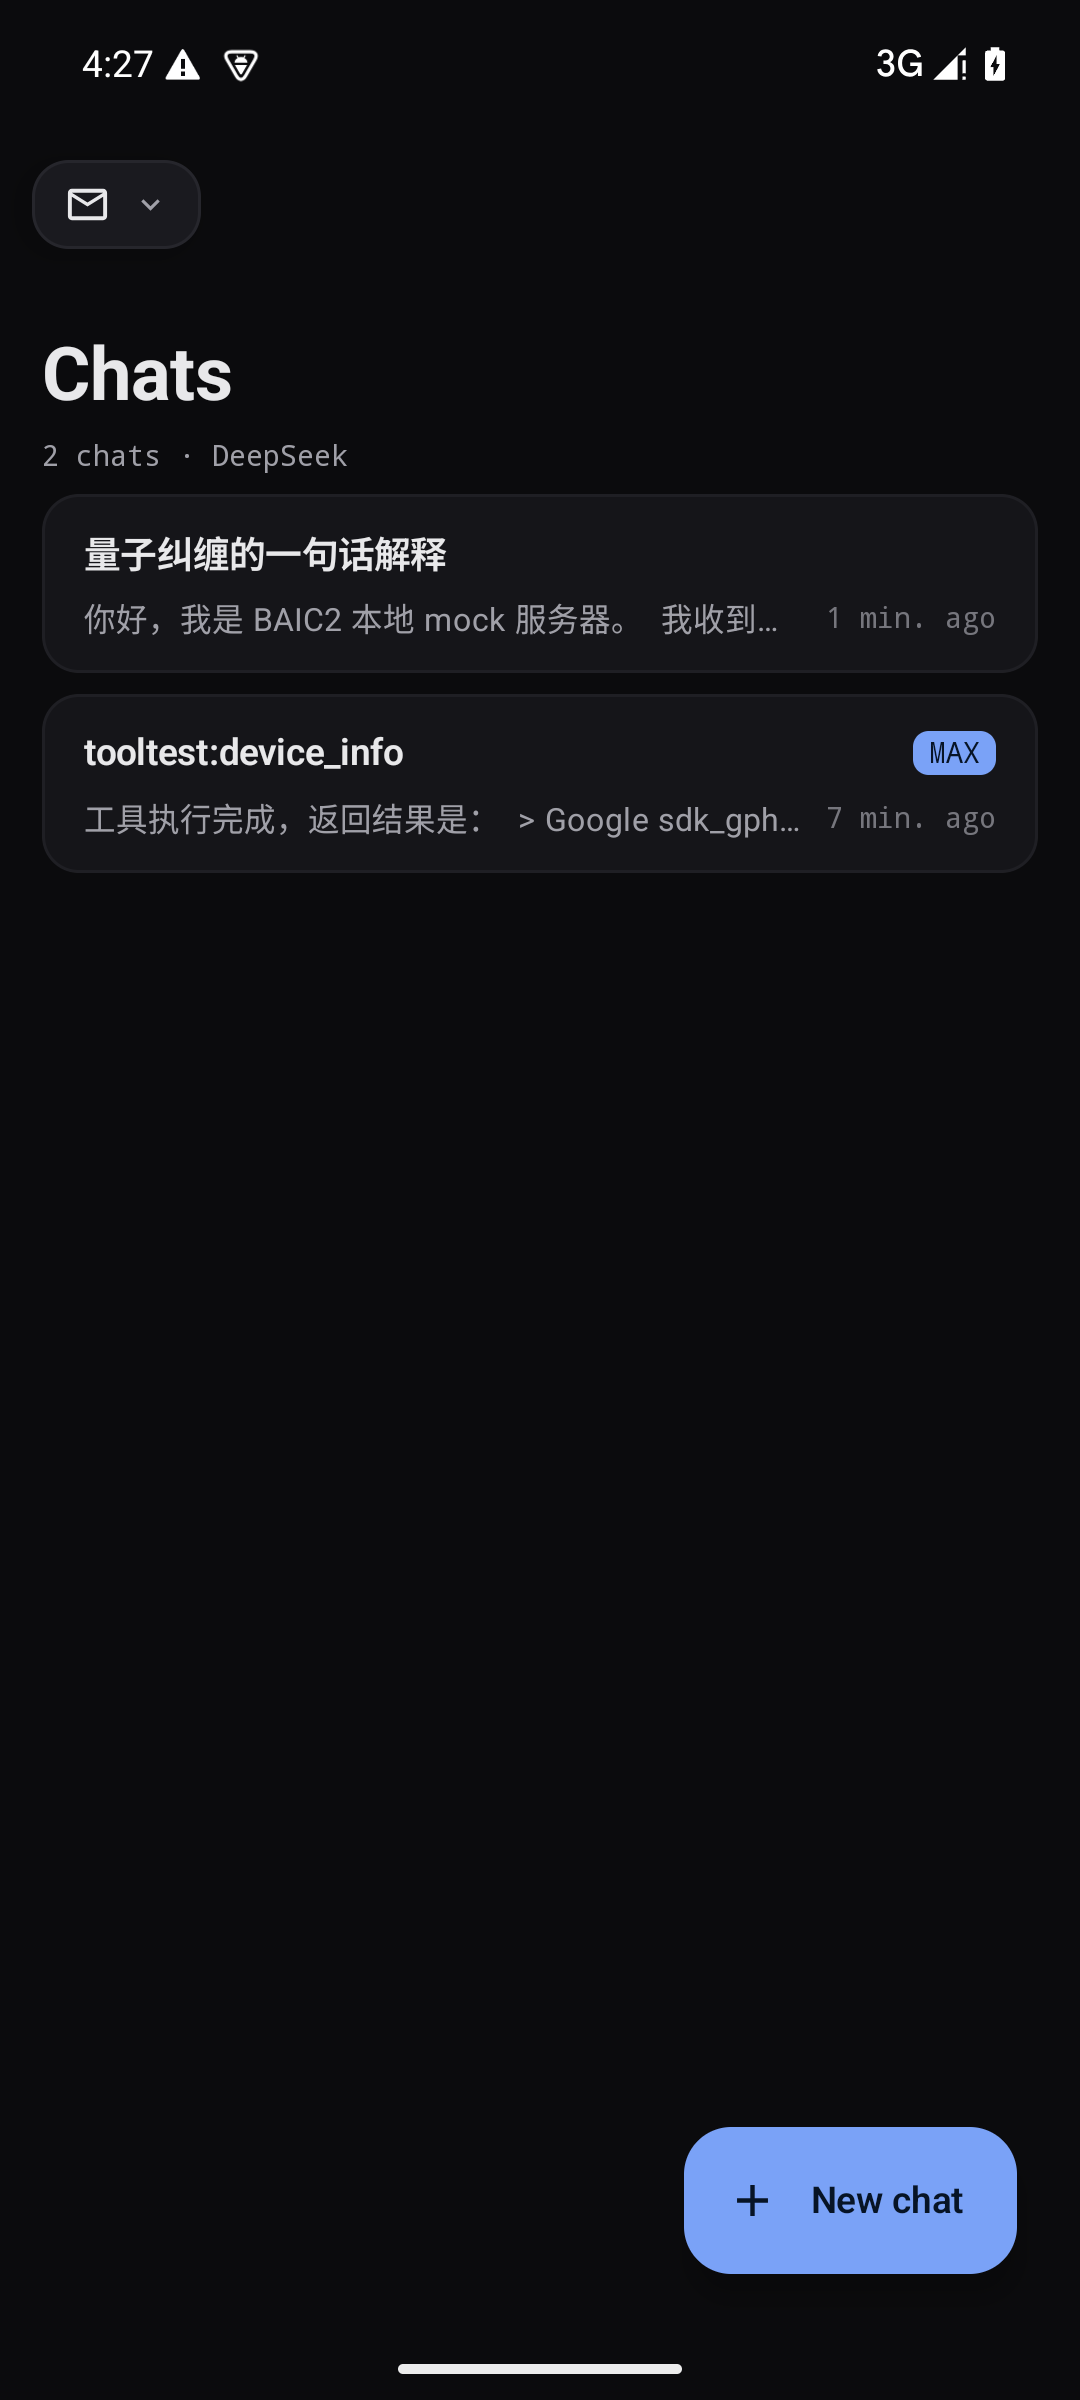
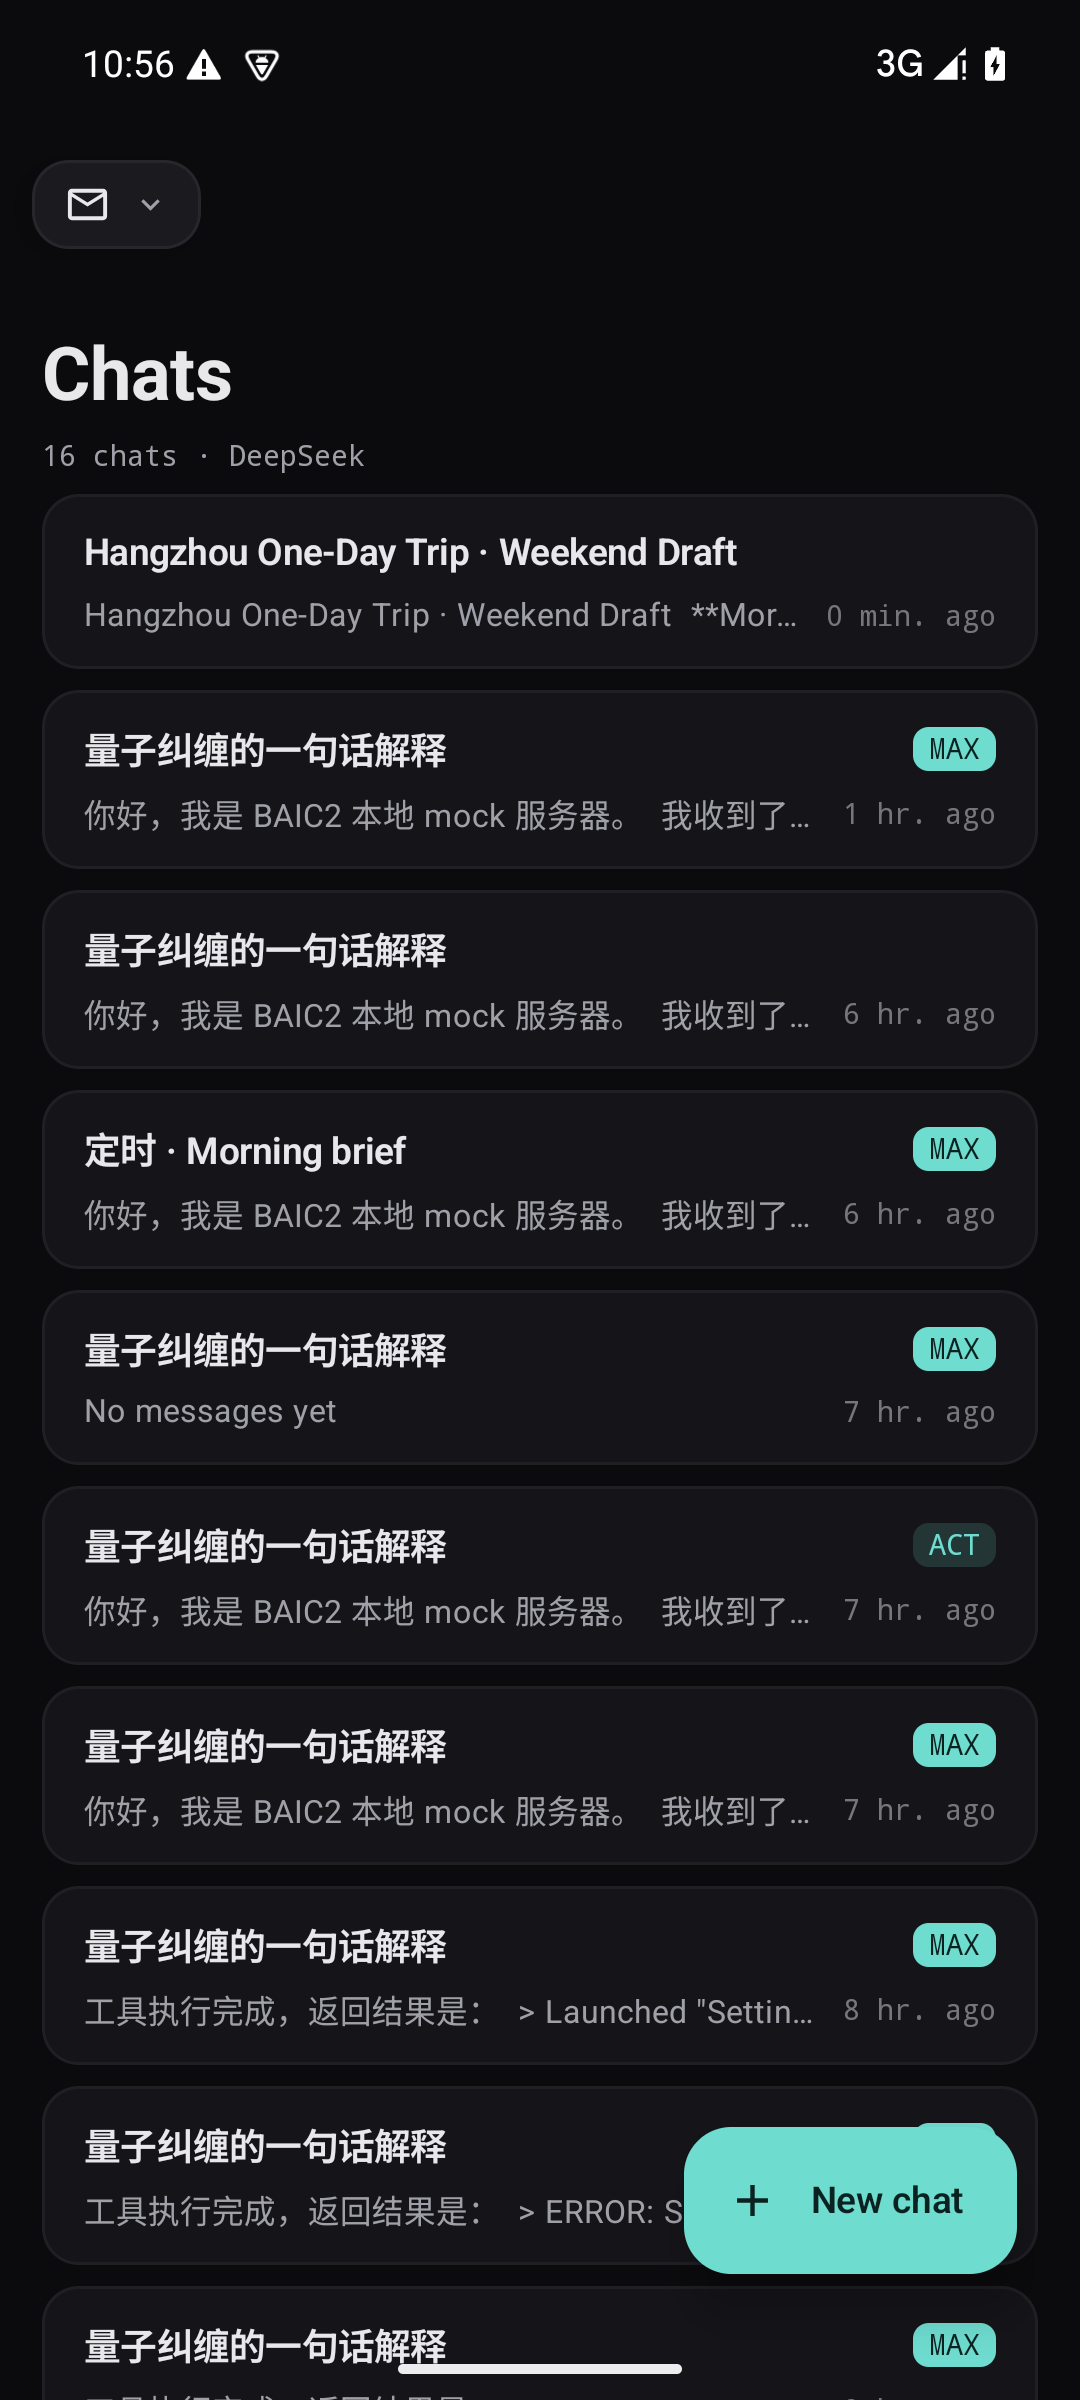
docs: rewrite README with feature deep-dive and fresh screenshots
- badges, selling points, 8-screenshot wall, feature reference,
  model support table, permissions, privacy, build and roadmap
- refresh all screenshots on the 0.1.10 release build
- fix stale roadmap anchor and M0 note in ARCHITECTURE.md

diff --git a/docs/ARCHITECTURE.md b/docs/ARCHITECTURE.md
@@ -1,6 +1,6 @@
 # BAIC2 架构设计
 
-> 本文随代码演进。M0 阶段只落地了骨架，后续模块会按里程碑充实。
+> 本文随代码演进，记录当前架构与决策；模块正在按里程碑持续充实。
 
 ## 1. 设计原则
 
@@ -75,4 +75,4 @@
 
 ## 8. 里程碑
 
-见 [README](../README.md#里程碑)。每个阶段都有可验收物；M1 先立垂直切片与评测骨架，避免"最后才发现不行"。
+见 [README](../README.md#里程碑与路线图)。每个阶段都有可验收物；M1 先立垂直切片与评测骨架，避免"最后才发现不行"。
